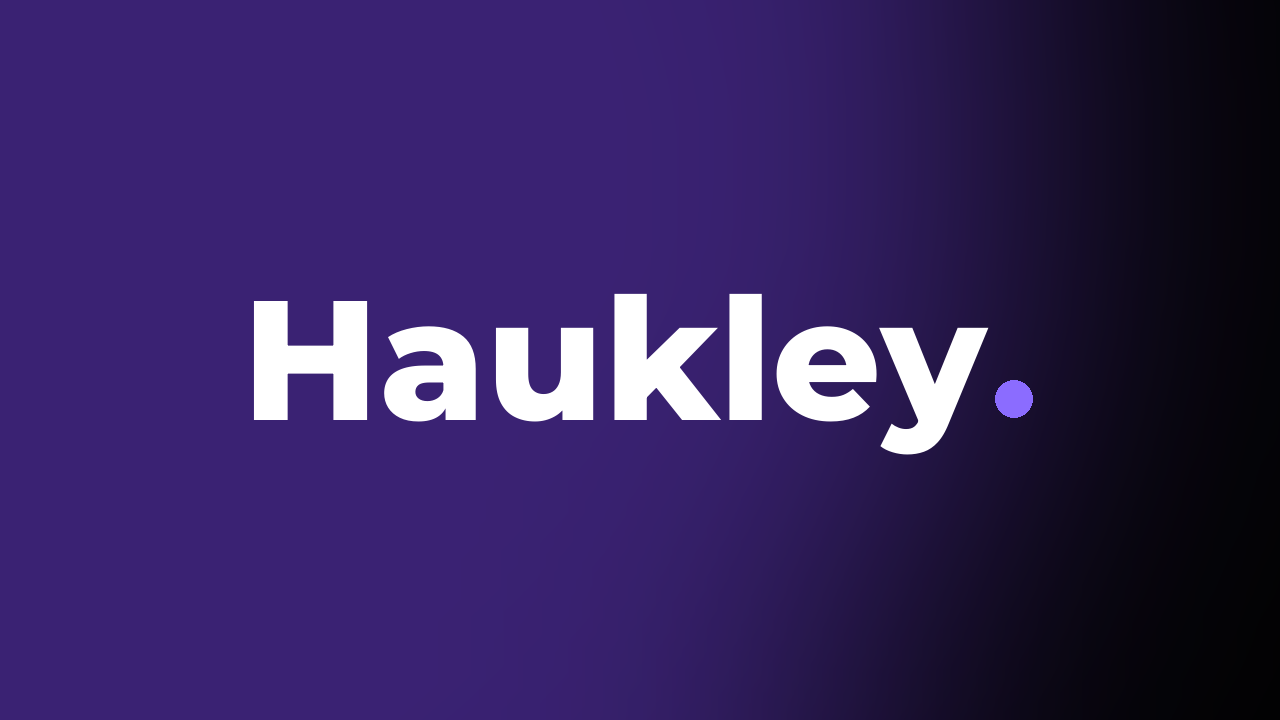
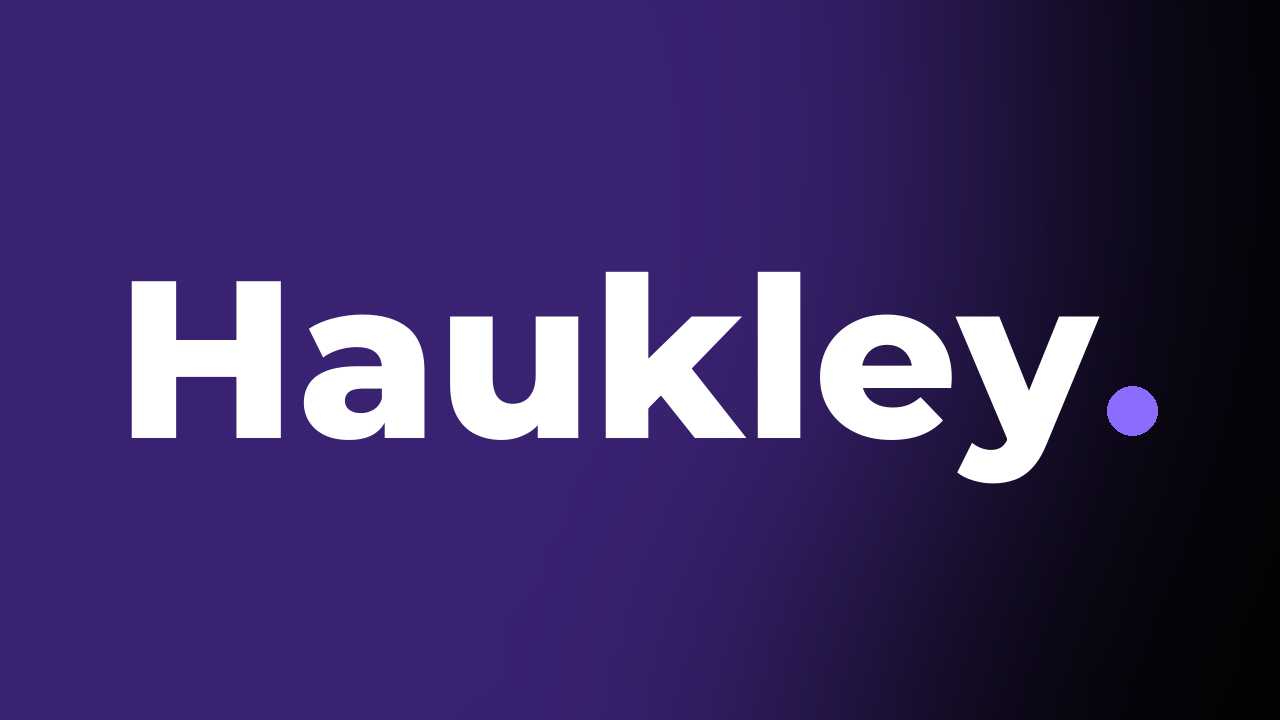
Make the Haukley wordmark fill the Fire TV home-row tile
On the Fire TV home row the Haukley tile sat next to Netflix and YouTube
with a wordmark spanning ~60% of the tile width, so it read as small.
make_posters.py now draws launcher tiles with the wordmark at 82% of the
width (tv_tile), for both the in-APK banner (tv_banner.png) and the
Amazon Appstore 1280x720 Fire TV icon, which is the image the home row
shows for store installs. Fire TV 1.1 APK rebuilt with the new banner
(same versionCode 2, same release key).

Security/OWASP LLM: N/A, artwork only.

Changed region(s): [[0.0938, 0.3667, 0.9062, 0.6722]]

diff --git a/scripts/make_posters.py b/scripts/make_posters.py
@@ -264,9 +264,24 @@ def brand_card(size, text_size):
     return img
 
 
+# Launcher tiles sit in a row next to Netflix/YouTube, whose wordmarks span ~80% of the tile;
+# ours at ~60% read as small on the TV, so size the wordmark to a fraction of the tile width.
+TILE_WORDMARK = 0.82
+
+
+def tv_tile(size):
+    w, _ = size
+    return brand_card(size, int(92 * TILE_WORDMARK * w / wordmark_width(92)))
+
+
 def make_banner():
-    """Android TV launcher banner (320x180 xhdpi)."""
-    return brand_card((640, 360), 92).resize((320, 180), Image.LANCZOS)
+    """Android TV / Fire TV launcher banner (320x180 xhdpi), drawn at 2x and scaled down."""
+    return tv_tile((640, 360)).resize((320, 180), Image.LANCZOS)
+
+
+def make_firetv_icon():
+    """Amazon Appstore 'Fire TV icon' (1280x720): the tile on the Fire TV home row."""
+    return tv_tile((1280, 720))
 
 
 def main():
@@ -292,6 +307,7 @@ def main():
             print("ok", t["id"])
 
     make_banner().save(ROOT / "android/app/src/main/res/drawable/tv_banner.png")
+    make_firetv_icon().save(ROOT / "marketing/firetv/firetv-icon-1280x720.png", optimize=True)
 
     # Only bundle films whose stream is already on the CDN (the rest are still ingesting).
     def live(url):
